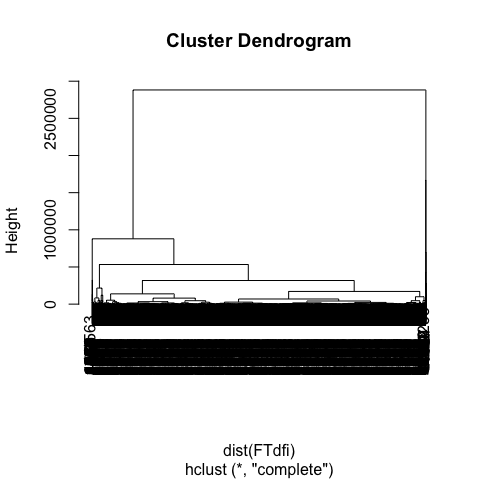
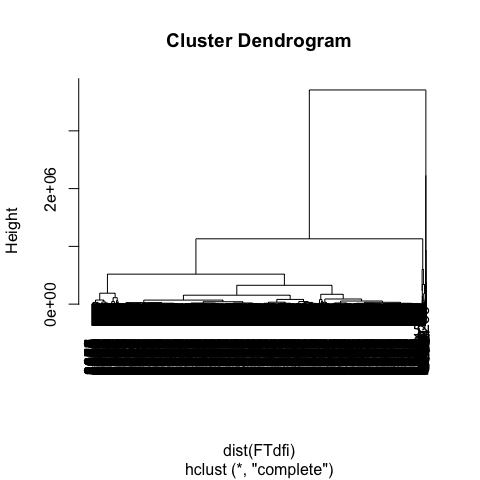
Reclustered with proper domain

diff --git a/Faculty_Classification.md b/Faculty_Classification.md
@@ -2,7 +2,7 @@ Faculty Classification
 ================
 Chad Evans
 
-Built with R version 3.3.2. Last run on 2017-11-13.
+Built with R version 3.3.2. Last run on 2017-11-17.
 
 Contents
 --------
@@ -114,6 +114,10 @@ To implement k-means clustering, all data must be numeric. This requires convert
 
 ``` r
 load(file.path(Private_Cache,"FTdfi.RData")) # Singly imputed data
+
+source(file.path(Munge, "HERI_vars.R"))
+FTdfi <- FTdfi %>% select(WORKVARS, FTVARS, OTHERVARS, PROFDEVVARS, STRESSVARS, PRODUCTIVITYVARS)
+
 idata<-data.frame(model.matrix(~ ., data=FTdfi, contrasts.arg = lapply(FTdfi[,sapply(FTdfi, is.factor)], contrasts, contrasts=FALSE)))
 ```
 
@@ -156,19 +160,19 @@ rownames(table)<-c("Age","Male","Married","White","Citizen","Native English","Av
 kable(table, caption = "Distribution of Adjunct Clusters by Demographic Characteristics")
 ```
 
-|                     |  Cluster 1 (n=656)|  Cluster 2 (n=1626)|  Cluster 3 (n=2245)|
-|---------------------|------------------:|-------------------:|-------------------:|
-| Age                 |              49.65|               45.99|               50.16|
-| Male                |               0.49|                0.43|                0.43|
-| Married             |               0.80|                0.75|                0.78|
-| White               |               0.83|                0.81|                0.86|
-| Citizen             |               0.93|                0.92|                0.95|
-| Native English      |               0.88|                0.87|                0.91|
-| Avg. Children       |               1.56|                1.27|                1.65|
-| BA or Less          |               0.07|                0.04|                0.06|
-| Prof Degree         |               0.54|                0.50|                0.64|
-| Ph.D.               |               0.39|                0.46|                0.30|
-| Working on a Degree |               0.13|                0.20|                0.19|
+|                     |  Cluster 1 (n=2686)|  Cluster 2 (n=716)|  Cluster 3 (n=1125)|
+|---------------------|-------------------:|------------------:|-------------------:|
+| Age                 |               48.28|              45.38|               51.37|
+| Male                |                0.45|               0.39|                0.43|
+| Married             |                0.77|               0.74|                0.80|
+| White               |                0.84|               0.80|                0.85|
+| Citizen             |                0.93|               0.91|                0.97|
+| Native English      |                0.88|               0.86|                0.94|
+| Avg. Children       |                1.47|               1.29|                1.72|
+| BA or Less          |                0.06|               0.04|                0.05|
+| Prof Degree         |                0.58|               0.51|                0.62|
+| Ph.D.               |                0.37|               0.45|                0.33|
+| Working on a Degree |                0.20|               0.17|                0.16|
 
 -   Most demographic characterstics don't differ much across clusters.
 -   Cluster 3 tends to have a professional background (and somewhat fewer PhDs).
@@ -184,23 +188,23 @@ rownames(table)<-c("2-year","4-year","University","Public","Research I","Researc
 kable(table, caption = "Distribution of Adjunct Clusters by Institutional Characteristics")
 ```
 
-|                                |  Cluster 1 (n=656)|  Cluster 2 (n=1626)|  Cluster 3 (n=2245)|
-|--------------------------------|------------------:|-------------------:|-------------------:|
-| 2-year                         |               0.00|                0.00|                0.00|
-| 4-year                         |               0.57|                0.58|                0.70|
-| University                     |               0.43|                0.42|                0.30|
-| Public                         |               0.33|                0.43|                0.36|
-| Research I                     |               0.07|                0.04|                0.04|
-| Research II                    |               0.26|                0.26|                0.16|
-| R3/Doctoral                    |               0.09|                0.10|                0.08|
-| Bachelors/Masters              |               0.56|                0.58|                0.70|
-| Associates                     |               0.00|                0.00|                0.00|
-| Other Inst.                    |               0.02|                0.02|                0.01|
-| Highly Selective               |               0.10|                0.09|                0.11|
-| Faculty very respectful        |               0.46|                0.31|                0.67|
-| Administators very considerate |               0.30|                0.06|                0.31|
-| Research valued                |               0.73|                0.48|                0.81|
-| Teaching valued                |               0.85|                0.79|                0.98|
+|                                |  Cluster 1 (n=2686)|  Cluster 2 (n=716)|  Cluster 3 (n=1125)|
+|--------------------------------|-------------------:|------------------:|-------------------:|
+| 2-year                         |                0.00|               0.00|                0.00|
+| 4-year                         |                0.64|               0.62|                0.63|
+| University                     |                0.36|               0.38|                0.37|
+| Public                         |                0.40|               0.43|                0.30|
+| Research I                     |                0.04|               0.04|                0.05|
+| Research II                    |                0.21|               0.24|                0.21|
+| R3/Doctoral                    |                0.09|               0.07|                0.10|
+| Bachelors/Masters              |                0.65|               0.64|                0.63|
+| Associates                     |                0.00|               0.00|                0.00|
+| Other Inst.                    |                0.01|               0.01|                0.01|
+| Highly Selective               |                0.10|               0.11|                0.09|
+| Faculty very respectful        |                0.53|               0.49|                0.47|
+| Administators very considerate |                0.21|               0.14|                0.27|
+| Research valued                |                0.70|               0.57|                0.69|
+| Teaching valued                |                0.91|               0.85|                0.89|
 
 -   Cluster 3 have a much more optimistic outlook on their work. They are more likely to report that faculty and administrators are respectful, and that research and teaching is valued.
 -   Cluster 2 are much more cynical. They report that faculty are not very respectful and administrators are nearly all not respectful. They also tend to report that research is not valued where they work. Also, teaching isn't particularly valued to them either.
@@ -218,13 +222,13 @@ colnames(table)<-Clusternames
 kable(table, caption = "Distribution of Adjunct Clusters by Departmental Characteristics")
 ```
 
-|                 |  Cluster 1 (n=656)|  Cluster 2 (n=1626)|  Cluster 3 (n=2245)|
-|-----------------|------------------:|-------------------:|-------------------:|
-| Sciences        |               0.16|                0.19|                0.20|
-| Soft/Applied    |               0.55|                0.28|                0.38|
-| Humanities/Arts |               0.09|                0.30|                0.20|
-| Health Sciences |               0.12|                0.10|                0.13|
-| Social Sciences |               0.08|                0.13|                0.09|
+|                 |  Cluster 1 (n=2686)|  Cluster 2 (n=716)|  Cluster 3 (n=1125)|
+|-----------------|-------------------:|------------------:|-------------------:|
+| Sciences        |                0.22|               0.22|                0.10|
+| Soft/Applied    |                0.33|               0.26|                0.50|
+| Humanities/Arts |                0.22|               0.31|                0.17|
+| Health Sciences |                0.13|               0.06|                0.14|
+| Social Sciences |                0.10|               0.14|                0.09|
 
 -   Cluster 1 tends to be in Sciences or Soft/applied fields
 -   Cluster 2 tends to have the most Humanities/Arts faculty.
@@ -239,22 +243,22 @@ rownames(table)<-c("Teaching","Research","Administration/Other","Assistant Profe
 kable(table, caption = "Distribution of Adjunct Clusters by Work Characteristics")
 ```
 
-|                      |  Cluster 1 (n=656)|  Cluster 2 (n=1626)|  Cluster 3 (n=2245)|
-|----------------------|------------------:|-------------------:|-------------------:|
-| Teaching             |               0.06|                0.92|                0.93|
-| Research             |               0.16|                0.02|                0.01|
-| Administration/Other |               0.78|                0.06|                0.06|
-| Assistant Professor  |               0.25|                0.35|                0.31|
-| Associate Professor  |               0.19|                0.09|                0.10|
-| Instructor           |               0.28|                0.25|                0.28|
-| Lecturer             |               0.13|                0.28|                0.26|
-| Professor            |               0.15|                0.03|                0.05|
-| Union member         |               0.06|                0.16|                0.13|
-| Health benefits      |               0.96|                0.96|                0.94|
-| Retirement           |               0.97|                0.94|                0.94|
-| Avg. Salary          |           77805.87|            55033.36|            56998.66|
-| Avg. Courses         |               0.78|                3.27|                3.05|
-| Prof. Dev. Rating    |               0.08|               -0.06|                0.02|
+|                      |  Cluster 1 (n=2686)|  Cluster 2 (n=716)|  Cluster 3 (n=1125)|
+|----------------------|-------------------:|------------------:|-------------------:|
+| Teaching             |                0.92|               0.87|                0.45|
+| Research             |                0.04|               0.06|                0.02|
+| Administration/Other |                0.04|               0.07|                0.53|
+| Assistant Professor  |                0.35|               0.29|                0.26|
+| Associate Professor  |                0.08|               0.06|                0.19|
+| Instructor           |                0.27|               0.32|                0.23|
+| Lecturer             |                0.26|               0.31|                0.20|
+| Professor            |                0.05|               0.03|                0.11|
+| Union member         |                0.14|               0.16|                0.11|
+| Health benefits      |                0.95|               0.94|                0.96|
+| Retirement           |                0.94|               0.90|                0.98|
+| Avg. Salary          |            55276.56|           49720.19|            75026.27|
+| Avg. Courses         |                3.14|               3.04|                1.83|
+| Prof. Dev. Rating    |               -0.02|              -0.27|                0.22|
 
 ``` r
 write.csv(table, file.path(Graphs,"FT_Employment_table.csv"))
@@ -277,6 +281,10 @@ Cluster Analysis of Part-time Faculty
 
 ``` r
 load(file.path(Private_Cache,"PTdfi.RData")) # Singly imputed data
+
+source(file.path(Munge, "HERI_vars.R"))
+PTdfi <- PTdfi %>% select(WORKVARS, PTVARS, OTHERVARS, PROFDEVVARS, STRESSVARS, PRODUCTIVITYVARS)
+
 idata<-data.frame(model.matrix(~ ., data=PTdfi, contrasts.arg = lapply(PTdfi[,sapply(PTdfi, is.factor)], contrasts, contrasts=FALSE)))
 ```
 
@@ -313,19 +321,19 @@ rownames(table)<-c("Age","Male","Married","White","Citizen","Native English","Av
 kable(table, caption = "Distribution of Adjunct Clusters by Demographic Characteristics")
 ```
 
-|                     |  Cluster 1 (n=351)|  Cluster 2 (n=1240)|  Cluster 3 (n=756)|  Cluster 4 (n=1213)|  Cluster 5 (n=893)|
+|                     |  Cluster 1 (n=953)|  Cluster 2 (n=1027)|  Cluster 3 (n=391)|  Cluster 4 (n=1641)|  Cluster 5 (n=441)|
 |---------------------|------------------:|-------------------:|------------------:|-------------------:|------------------:|
-| Age                 |              61.45|               47.00|              48.16|               52.63|              53.68|
-| Male                |               0.56|                0.39|               0.38|                0.59|               0.47|
-| Married             |               0.82|                0.74|               0.74|                0.83|               0.81|
-| White               |               0.90|                0.79|               0.80|                0.86|               0.85|
-| Citizen             |               0.97|                0.93|               0.95|                0.98|               0.98|
-| Native English      |               0.93|                0.87|               0.90|                0.95|               0.93|
-| Avg. Children       |               1.92|                1.46|               1.36|                1.95|               1.98|
-| BA or Less          |               0.04|                0.10|               0.05|                0.10|               0.14|
-| Prof Degree         |               0.25|                0.68|               0.63|                0.78|               0.72|
-| Ph.D.               |               0.71|                0.22|               0.33|                0.12|               0.14|
-| Working on a Degree |               0.06|                0.26|               0.27|                0.18|               0.19|
+| Age                 |              50.75|               47.64|              49.66|               51.70|              60.09|
+| Male                |               0.48|                0.40|               0.44|                0.51|               0.53|
+| Married             |               0.80|                0.74|               0.75|                0.80|               0.81|
+| White               |               0.86|                0.79|               0.83|                0.82|               0.89|
+| Citizen             |               0.97|                0.93|               0.96|                0.97|               0.97|
+| Native English      |               0.93|                0.88|               0.92|                0.92|               0.93|
+| Avg. Children       |               1.75|                1.41|               1.57|                1.88|               1.88|
+| BA or Less          |               0.12|                0.05|               0.09|                0.12|               0.05|
+| Prof Degree         |               0.72|                0.63|               0.70|                0.76|               0.33|
+| Ph.D.               |               0.16|                0.32|               0.21|                0.12|               0.61|
+| Working on a Degree |               0.20|                0.25|               0.23|                0.21|               0.09|
 
 -   Cluster 1 is distinctly older and have PhDs
 -   The other clusters tend to have professional degrees, particularly cluster 4
@@ -340,23 +348,23 @@ rownames(table)<-c("2-year","4-year","University","Public","Research I","Researc
 kable(table, caption = "Distribution of Adjunct Clusters by Institutional Characteristics")
 ```
 
-|                                |  Cluster 1 (n=351)|  Cluster 2 (n=1240)|  Cluster 3 (n=756)|  Cluster 4 (n=1213)|  Cluster 5 (n=893)|
+|                                |  Cluster 1 (n=953)|  Cluster 2 (n=1027)|  Cluster 3 (n=391)|  Cluster 4 (n=1641)|  Cluster 5 (n=441)|
 |--------------------------------|------------------:|-------------------:|------------------:|-------------------:|------------------:|
-| 2-year                         |               0.02|                0.05|               0.03|                0.05|               0.06|
-| 4-year                         |               0.72|                0.71|               0.70|                0.69|               0.65|
-| University                     |               0.26|                0.24|               0.27|                0.26|               0.29|
-| Public                         |               0.39|                0.54|               0.48|                0.28|               0.36|
-| Research I                     |               0.08|                0.05|               0.06|                0.03|               0.03|
-| Research II                    |               0.12|                0.12|               0.14|                0.16|               0.17|
-| R3/Doctoral                    |               0.04|                0.06|               0.05|                0.05|               0.07|
-| Bachelors/Masters              |               0.73|                0.72|               0.72|                0.71|               0.67|
-| Associates                     |               0.02|                0.05|               0.03|                0.04|               0.06|
+| 2-year                         |               0.04|                0.03|               0.04|                0.06|               0.02|
+| 4-year                         |               0.69|                0.74|               0.74|                0.65|               0.71|
+| University                     |               0.27|                0.23|               0.22|                0.29|               0.27|
+| Public                         |               0.39|                0.57|               0.32|                0.35|               0.39|
+| Research I                     |               0.03|                0.05|               0.04|                0.04|               0.07|
+| Research II                    |               0.15|                0.13|               0.11|                0.16|               0.14|
+| R3/Doctoral                    |               0.05|                0.05|               0.05|                0.07|               0.04|
+| Bachelors/Masters              |               0.72|                0.74|               0.75|                0.67|               0.72|
+| Associates                     |               0.04|                0.03|               0.04|                0.06|               0.02|
 | Other Inst.                    |               0.00|                0.00|               0.01|                0.00|               0.00|
-| Highly Selective               |               0.17|                0.07|               0.05|                0.02|               0.04|
-| Faculty very respectful        |               0.56|                0.56|               0.23|                0.51|               0.90|
-| Administators very considerate |               0.26|                0.13|               0.03|                0.15|               0.53|
-| Research valued                |               0.80|                0.70|               0.27|                0.56|               0.84|
-| Teaching valued                |               0.94|                0.96|               0.64|                0.91|               1.00|
+| Highly Selective               |               0.04|                0.08|               0.03|                0.03|               0.15|
+| Faculty very respectful        |               0.57|                0.44|               0.48|                0.64|               0.56|
+| Administators very considerate |               0.22|                0.10|               0.14|                0.28|               0.25|
+| Research valued                |               0.56|                0.56|               0.49|                0.69|               0.77|
+| Teaching valued                |               0.89|                0.84|               0.82|                0.95|               0.94|
 
 -   The faculty environment is important
     -   Cluster 3 are in adverse environments where teach and reseach are not valued and where faculty and administrators are not respectful
@@ -375,13 +383,13 @@ colnames(table)<-Clusternames
 kable(table, caption = "Distribution of Adjunct Clusters by Departmental Characteristics")
 ```
 
-|                 |  Cluster 1 (n=351)|  Cluster 2 (n=1240)|  Cluster 3 (n=756)|  Cluster 4 (n=1213)|  Cluster 5 (n=893)|
+|                 |  Cluster 1 (n=953)|  Cluster 2 (n=1027)|  Cluster 3 (n=391)|  Cluster 4 (n=1641)|  Cluster 5 (n=441)|
 |-----------------|------------------:|-------------------:|------------------:|-------------------:|------------------:|
-| Sciences        |               0.22|                0.17|               0.11|                0.17|               0.12|
-| Soft/Applied    |               0.26|                0.28|               0.29|                0.50|               0.49|
-| Humanities/Arts |               0.25|                0.35|               0.40|                0.12|               0.18|
-| Health Sciences |               0.08|                0.06|               0.03|                0.09|               0.08|
-| Social Sciences |               0.19|                0.14|               0.17|                0.12|               0.14|
+| Sciences        |               0.16|                0.14|               0.12|                0.15|               0.21|
+| Soft/Applied    |               0.42|                0.25|               0.39|                0.47|               0.28|
+| Humanities/Arts |               0.21|                0.40|               0.30|                0.18|               0.24|
+| Health Sciences |               0.07|                0.05|               0.04|                0.08|               0.10|
+| Social Sciences |               0.14|                0.16|               0.15|                0.12|               0.18|
 
 -   Cluster 3 tend to be found in the Arts and humanities
 -   Clusters 4 and 5 tend to be found in soft, applied fields like education and business
@@ -396,22 +404,22 @@ rownames(table)<-c("Teaching","Research","Administration/Other","Assistant Profe
 kable(table, caption = "Distribution of Adjunct Clusters by Work Characteristics")
 ```
 
-|                      |  Cluster 1 (n=351)|  Cluster 2 (n=1240)|  Cluster 3 (n=756)|  Cluster 4 (n=1213)|  Cluster 5 (n=893)|
+|                      |  Cluster 1 (n=953)|  Cluster 2 (n=1027)|  Cluster 3 (n=391)|  Cluster 4 (n=1641)|  Cluster 5 (n=441)|
 |----------------------|------------------:|-------------------:|------------------:|-------------------:|------------------:|
-| Teaching             |               0.82|                0.95|               0.98|                0.98|               0.98|
-| Research             |               0.06|                0.01|               0.01|                0.00|               0.00|
-| Administration/Other |               0.11|                0.03|               0.01|                0.02|               0.02|
-| Assistant Professor  |               0.10|                0.10|               0.07|                0.06|               0.09|
-| Associate Professor  |               0.18|                0.02|               0.03|                0.04|               0.06|
-| Instructor           |               0.06|                0.44|               0.48|                0.68|               0.53|
-| Lecturer             |               0.12|                0.41|               0.38|                0.16|               0.24|
-| Professor            |               0.54|                0.03|               0.04|                0.06|               0.09|
-| Union member         |               0.22|                0.31|               0.28|                0.10|               0.16|
-| Health benefits      |               0.86|                0.71|               0.73|                0.18|               0.30|
-| Retirement           |               0.91|                0.72|               0.75|                0.23|               0.35|
-| Avg. Salary          |           36756.26|            18573.80|           16337.20|             8683.50|           13602.82|
-| Avg. Courses         |               1.75|                2.79|               2.96|                1.63|               2.03|
-| Prof. Dev. Rating    |               0.79|                0.01|              -0.06|               -0.17|              -0.04|
+| Teaching             |               0.98|                0.97|               0.98|                0.97|               0.82|
+| Research             |               0.00|                0.01|               0.00|                0.00|               0.06|
+| Administration/Other |               0.02|                0.02|               0.02|                0.02|               0.12|
+| Assistant Professor  |               0.06|                0.10|               0.05|                0.07|               0.12|
+| Associate Professor  |               0.04|                0.02|               0.04|                0.04|               0.17|
+| Instructor           |               0.60|                0.36|               0.63|                0.60|               0.13|
+| Lecturer             |               0.24|                0.50|               0.23|                0.20|               0.15|
+| Professor            |               0.05|                0.02|               0.05|                0.08|               0.43|
+| Union member         |               0.16|                0.39|               0.14|                0.15|               0.21|
+| Health benefits      |               0.34|                0.79|               0.44|                0.34|               0.82|
+| Retirement           |               0.38|                0.77|               0.49|                0.39|               0.86|
+| Avg. Salary          |           11005.33|            21356.14|           12272.68|            11256.67|           34657.24|
+| Avg. Courses         |               1.95|                3.31|               2.46|                1.88|               1.82|
+| Prof. Dev. Rating    |              -0.20|                0.08|              -0.17|               -0.10|               0.76|
 
 ``` r
 write.csv(table, file.path(Graphs,"PT_Employment_table_1.csv"))
@@ -432,17 +440,17 @@ rownames(table)<-c("Teaching","Research","Administration/Other","Involuntary PT"
 kable(table, caption = "Distribution of Adjunct Clusters by Part-time Characteristics")
 ```
 
-|                         |  Cluster 1 (n=351)|  Cluster 2 (n=1240)|  Cluster 3 (n=756)|  Cluster 4 (n=1213)|  Cluster 5 (n=893)|
+|                         |  Cluster 1 (n=953)|  Cluster 2 (n=1027)|  Cluster 3 (n=391)|  Cluster 4 (n=1641)|  Cluster 5 (n=441)|
 |-------------------------|------------------:|-------------------:|------------------:|-------------------:|------------------:|
-| Teaching                |               0.82|                0.95|               0.98|                0.98|               0.98|
-| Research                |               0.06|                0.01|               0.01|                0.00|               0.00|
-| Administration/Other    |               0.11|                0.03|               0.01|                0.02|               0.02|
-| Involuntary PT          |               0.19|                0.74|               0.81|                0.45|               0.47|
-| Sought FT               |               0.73|                0.55|               0.76|                0.30|               0.34|
-| Career Outside Academia |               0.08|                0.20|               0.21|                0.69|               0.45|
-| \# Other Institutions   |               0.21|                0.65|               0.88|                0.51|               0.45|
-| Total Salary            |           36756.26|            18573.80|           16337.20|             8683.50|           13602.82|
-| Payment Per Course      |            7604.80|             3713.26|            3316.54|             2964.21|            3487.01|
+| Teaching                |               0.98|                0.97|               0.98|                0.97|               0.82|
+| Research                |               0.00|                0.01|               0.00|                0.00|               0.06|
+| Administration/Other    |               0.02|                0.02|               0.02|                0.02|               0.12|
+| Involuntary PT          |               0.55|                0.83|               0.65|                0.51|               0.22|
+| Sought FT               |               0.40|                0.74|               0.50|                0.33|               0.68|
+| Career Outside Academia |               0.50|                0.11|               0.49|                0.52|               0.09|
+| \# Other Institutions   |               0.54|                0.79|               0.71|                0.52|               0.24|
+| Total Salary            |           11005.33|            21356.14|           12272.68|            11256.67|           34657.24|
+| Payment Per Course      |            3056.51|             4020.35|            3041.47|             3190.15|            6770.13|
 
 ``` r
 write.csv(table, file.path(Graphs,"PT_Employment_table_2.csv"))
